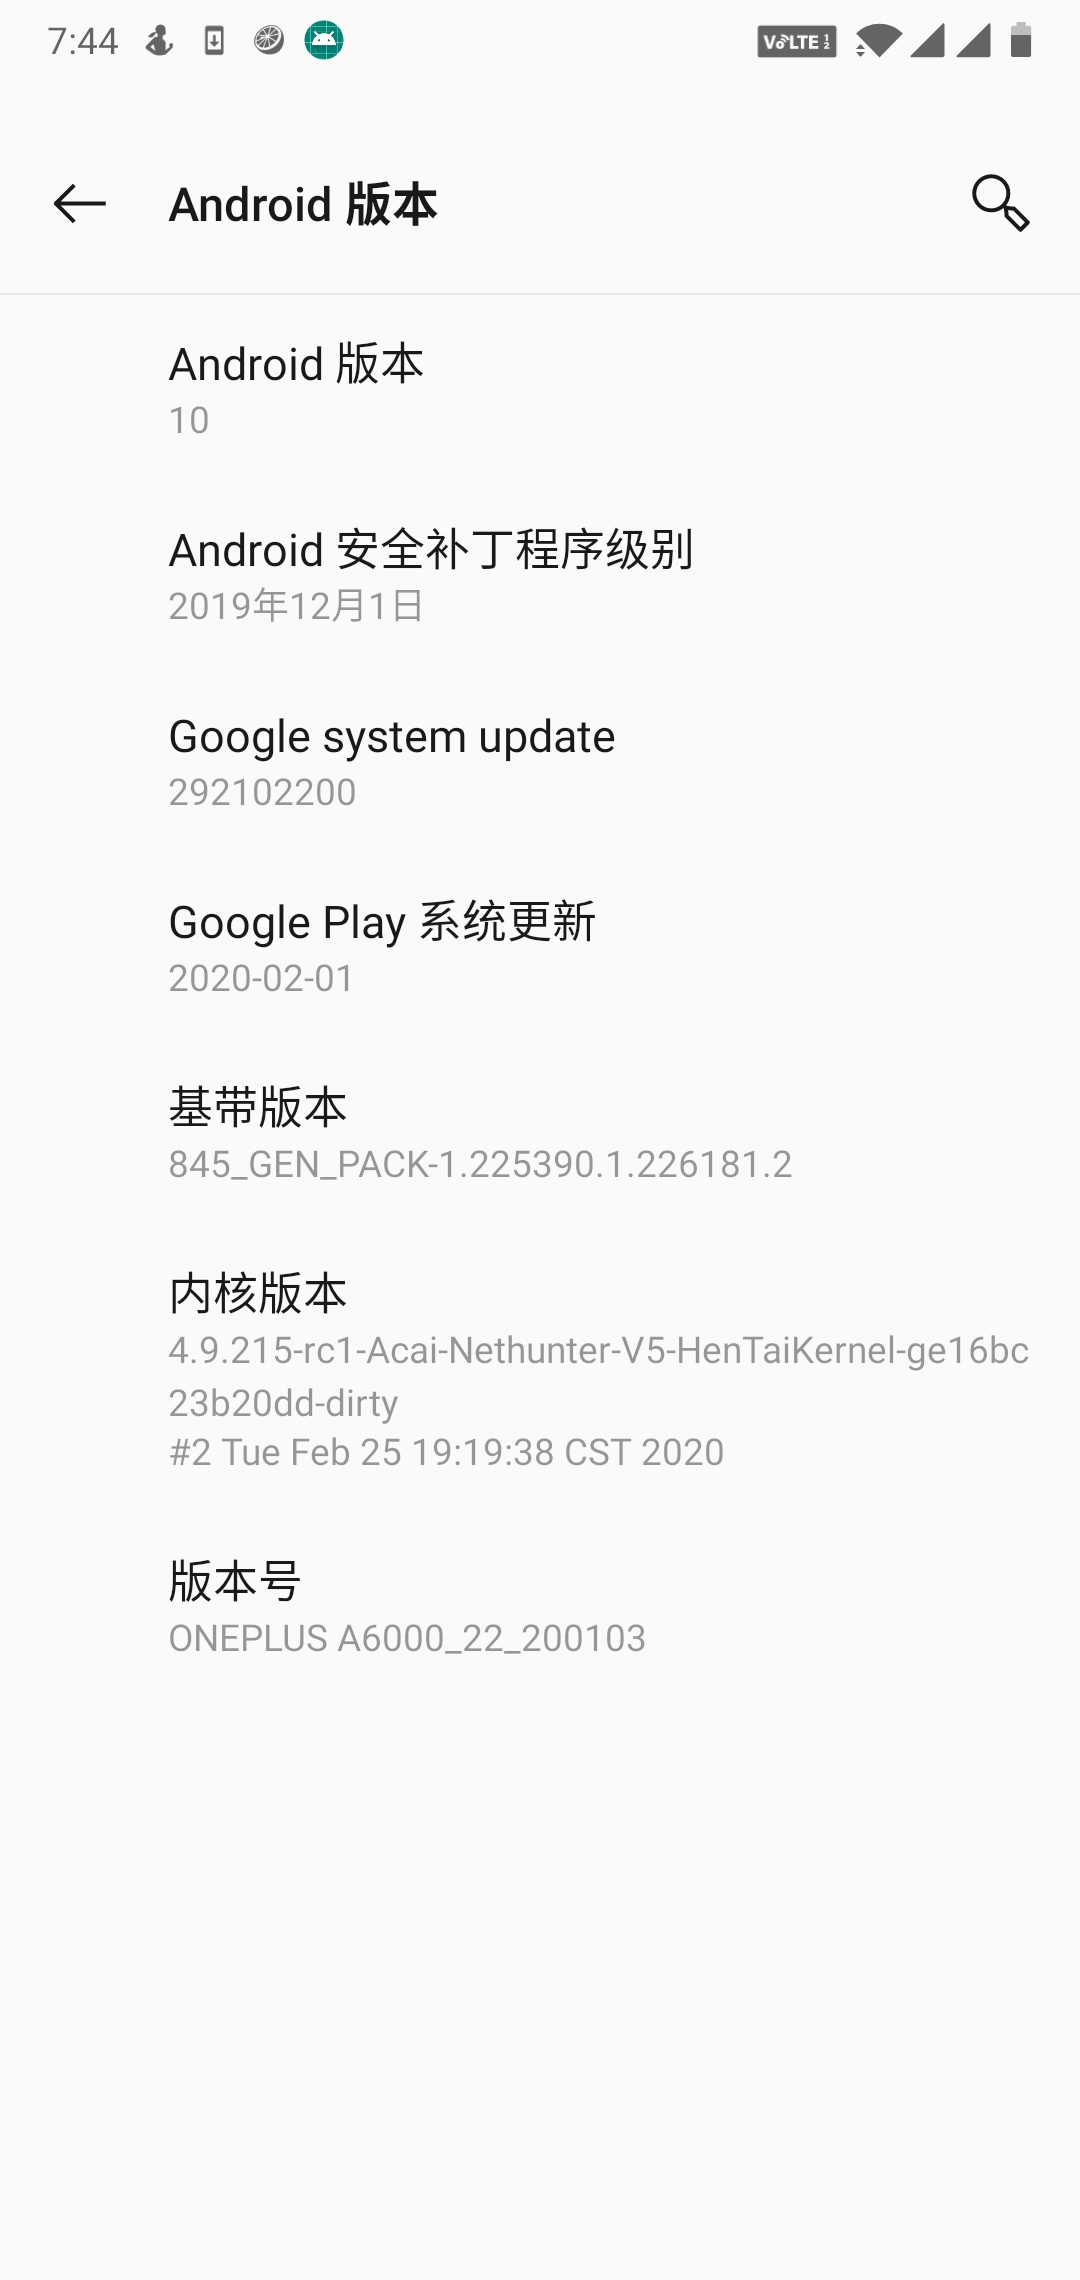
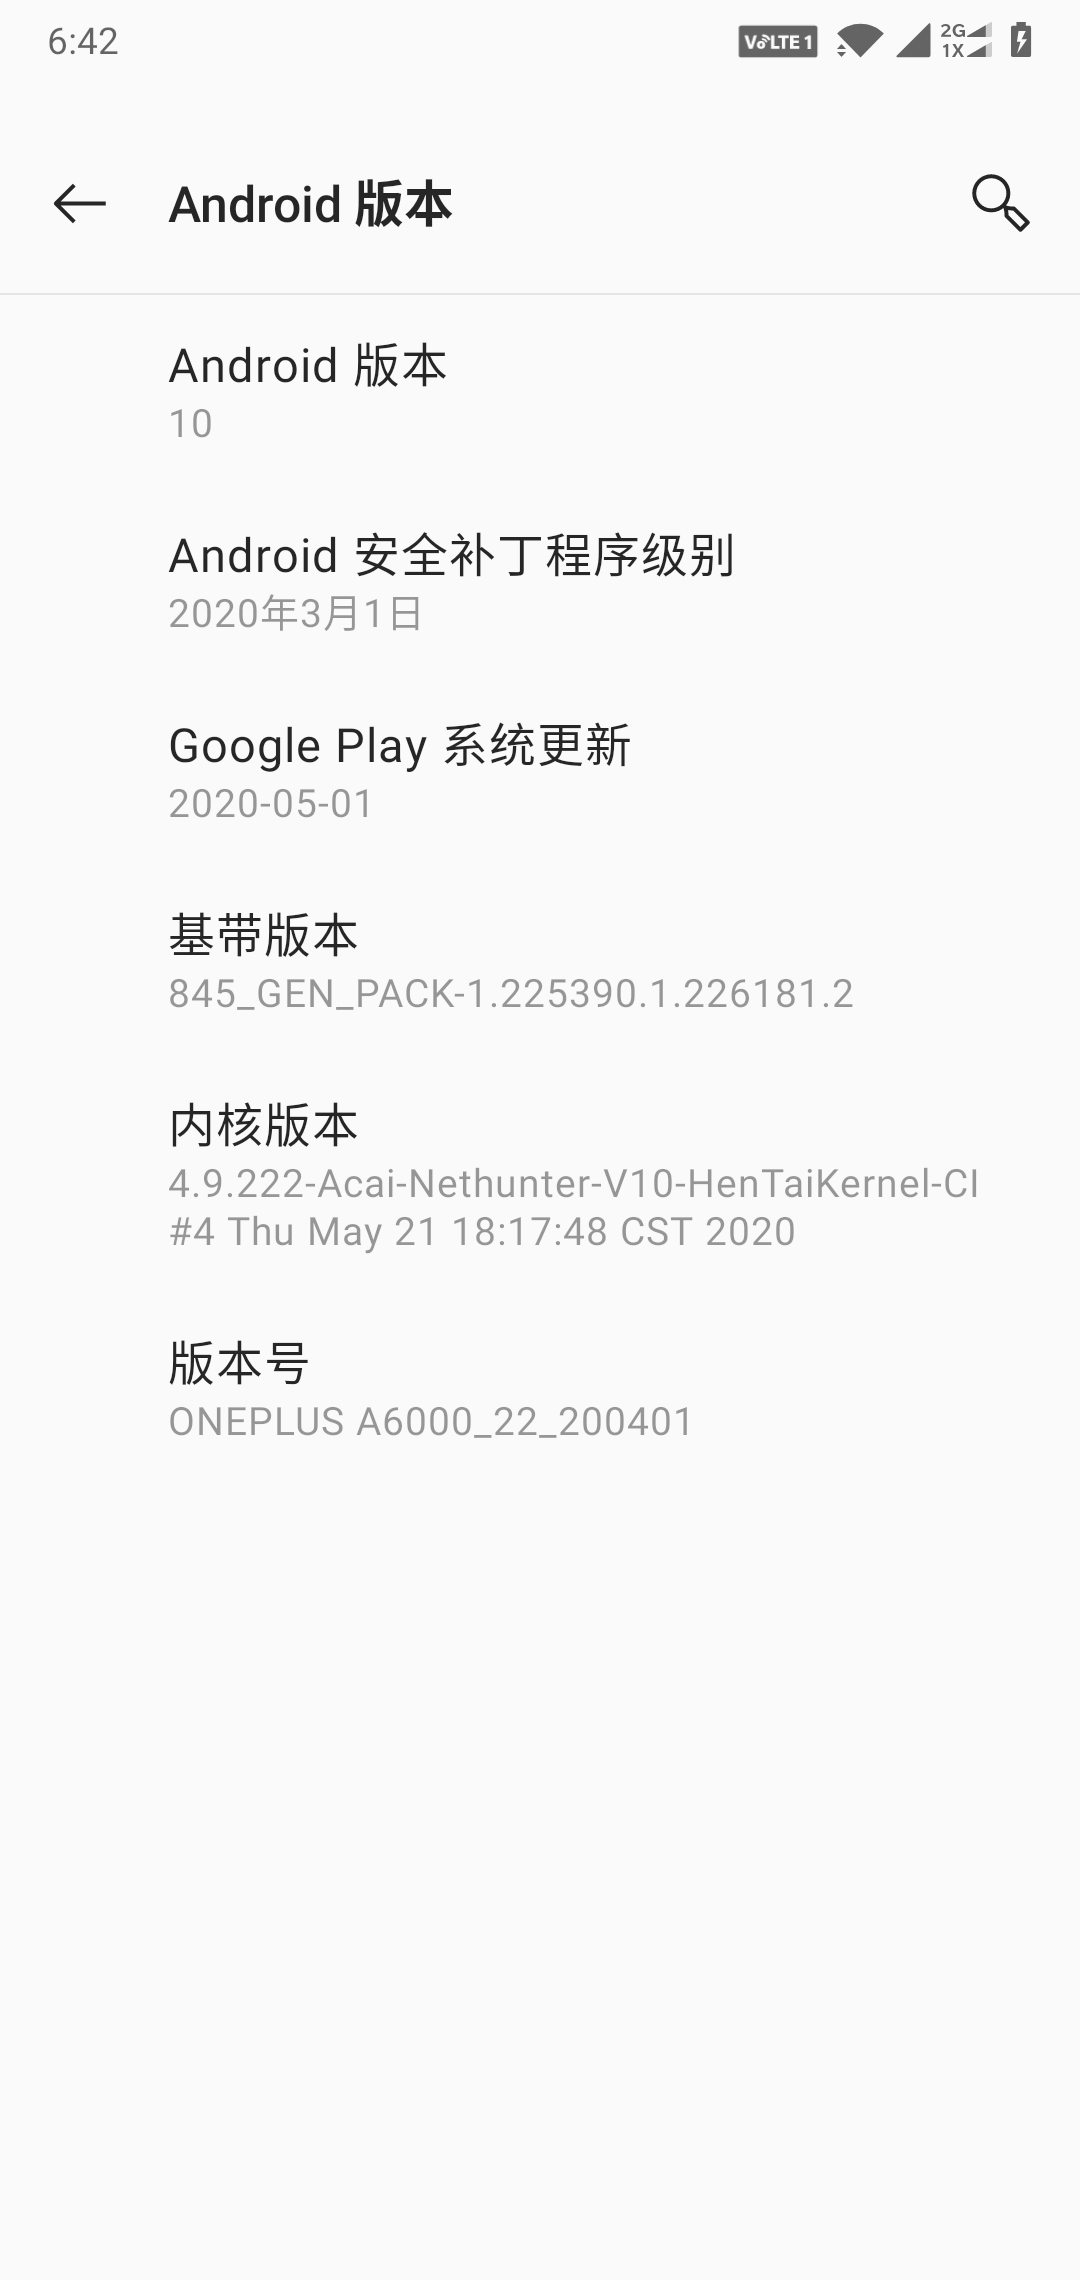
update V10

diff --git a/README_zh.md b/README_zh.md
@@ -4,8 +4,8 @@
 适用于一加6(T)的Nethunter内核，[源码](https://github.com/acai66/op6-op6t-nethunter-kernel)
 
 ## 内核信息
-- 版本: V6
-- 内核版本: 4.9.215-rc
+- 版本: V10
+- 内核版本: 4.9.222
 - 支持系统: 氢安卓10，理论也支持氧10
 - 编译链: Clang11
 
@@ -30,7 +30,7 @@
 
 
 ### Bugs
-1. HID功能需要重插一次usb才行，只需要在开机后重插一次就可完美使用。
+1. 测试中...
 
 
 ### TODO
@@ -48,8 +48,24 @@
     使用`modprobe`命令加载内核模块，例如加载rtl8812au模块，运行`modprobe 88XXau`。
     更多模块请参考`/system/lib/modules/`下有哪些ko文件。
 6. #### 如何进行HID测试？
-    hid功能已经能够始终开启了，不再需要运行特殊命令
-    参考 bugs
+    参考USB ARMY： https://forum.xda-developers.com/oneplus-5/development/burgerhunter-t3638810
+    ```
+    setprop sys.usb.config reset
+    setprop sys.usb.config win,hid
+    setprop sys.usb.config win,mass_storage
+    setprop sys.usb.config win,rndis
+    setprop sys.usb.config win,hid,mass_storage
+    setprop sys.usb.config win,rndis,hid
+    setprop sys.usb.config win,rndis,mass_storage
+    setprop sys.usb.config win,rndis,hid,mass_storage
+    setprop sys.usb.config mac,hid
+    setprop sys.usb.config mac,mass_storage
+    setprop sys.usb.config mac,ecm
+    setprop sys.usb.config mac,hid,mass_storage
+    setprop sys.usb.config mac,ecm,hid
+    setprop sys.usb.config mac,ecm,mass_storage
+    setprop sys.usb.config mac,ecm,hid,mass_storage
+    ```
 7. #### 如何切换网卡到监听模式？
     在测试`rtl8812au`时，使用`airmon-ng start wlan1`打开监听模式总是有异常，经过搜索测试发现运行如下命令即可打开监听模式
     ```

diff --git a/README.md b/README.md
@@ -4,8 +4,8 @@
 Nethunter Kernel for Oneplus 6 and Oneplus 6T, [Source Code](https://github.com/acai66/op6-op6t-nethunter-kernel)
 
 ## Kernel information
-- Version: V6
-- Kernel Version: 4.9.215-rc
+- Version: V10
+- Kernel Version: 4.9.222
 - Support ROM: Android 10(Oxygen OS and Hydrogen OS)
 - Toolchain: Clang11
 
@@ -29,7 +29,7 @@ Nethunter Kernel for Oneplus 6 and Oneplus 6T, [Source Code](https://github.com/
 
 
 ### BUGS
-- HID gadget function needs to replug usb again at first time.
+- Testing.
 
 
 ### TODO
